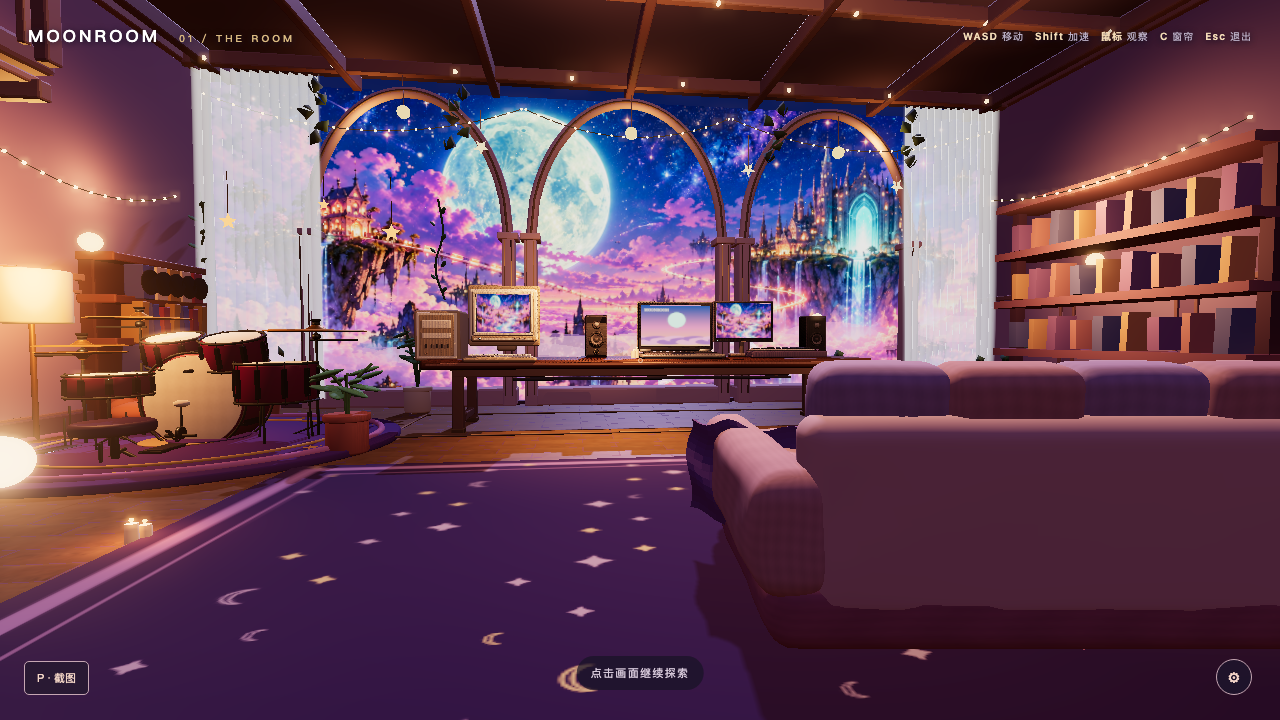
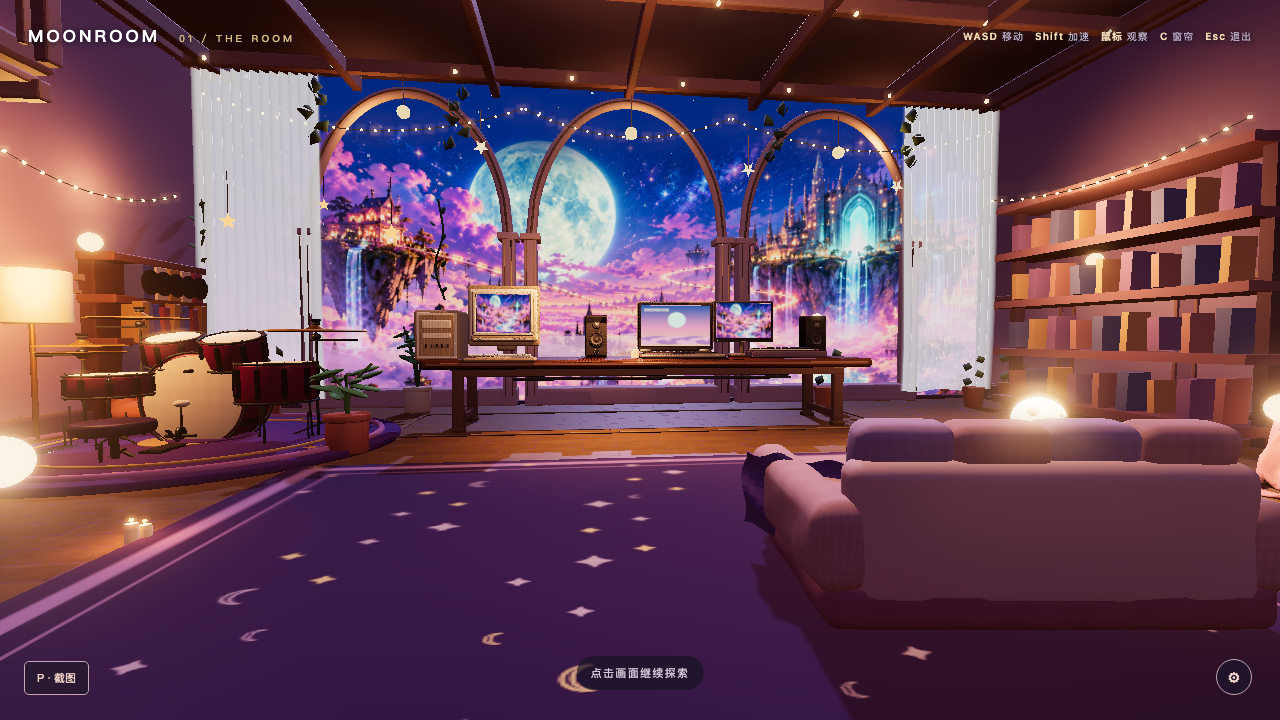
Enlarge bed to 1.7x and shrink cloud sofa to 0.78x

Changed region(s): [[0.2188, 0.0917, 1.0, 1.0], [0.75, 0.3667, 0.7812, 0.3972], [0.625, 0.7944, 0.6562, 0.825]]

diff --git a/src/scene/Lounge.jsx b/src/scene/Lounge.jsx
@@ -5,6 +5,8 @@ import { FLAGS } from '../config/flags'
 import GLBAsset from './AssetModel'
 
 // F01: low cloud sofa, seat facing the window so the `beanbag` camera pose looks out over the arches.
+// Sofa is drawn at SOFA_SCALE; collider/anchor sizes below are in the unscaled model space.
+const SOFA_SCALE = .78
 const SOFA_COLLIDERS = [{name:'Lounge_Collider',position:[0,.55,0],size:[3.6,1.1,2.35]}]
 const LEGACY_COLLIDERS = [{name:'Lounge_Collider',position:[0,.7,0],size:[3.35,1.4,3.45]}]
 const LOUNGE_ANCHORS = [{name:'Lounge_Interaction',position:[0,1,1.4]}]
@@ -13,5 +15,5 @@ export default function Lounge(){
   // The sofa back faces the room entrance; lift it to cream boucle so it reads soft rather than a dark slab.
   const backMaterials = useMemo(() => ({ CS_Back_Frame: new THREE.MeshStandardMaterial({ color:'#d8b2b9', roughness:.96 }) }), [])
   if (FLAGS.loungeLegacy) return <GLBAsset url="/assets/models/reclining-lounge.glb" position={FURNITURE.beanbag.position} rotation={[0,-.18,0]} collisionMeshes={LEGACY_COLLIDERS} interactionAnchors={LOUNGE_ANCHORS} fallbackScale={1.4}/>
-  return <GLBAsset url="/assets/models/lounge/cloud-sofa.glb" position={FURNITURE.beanbag.position} rotation={[0,Math.PI-.12,0]} nodeMaterials={backMaterials} collisionMeshes={SOFA_COLLIDERS} interactionAnchors={LOUNGE_ANCHORS} fallbackScale={1.4}/>
+  return <GLBAsset url="/assets/models/lounge/cloud-sofa.glb" position={FURNITURE.beanbag.position} rotation={[0,Math.PI-.12,0]} scale={SOFA_SCALE} nodeMaterials={backMaterials} collisionMeshes={SOFA_COLLIDERS} interactionAnchors={LOUNGE_ANCHORS} fallbackScale={1.4}/>
 }

diff --git a/src/config/scene.js b/src/config/scene.js
@@ -49,11 +49,11 @@ export const QA_LOOKS = {
 }
 
 export const FURNITURE = {
-  bed: { position: [8.45, 0, 3.0], size: [3.3, 1.15, 3.75] },
+  bed: { position: [7.9, 0, 3.0], size: [4.1, 1.15, 4.6] },
   bookshelf: { position: [9.05, 0, -3.1], size: [1.25, 4.8, 5.1] },
   desk: { position: [0.1, 0, -4.25], size: [8.2, 1.25, 1.7] },
   drums: { position: [-7.1, 0, -2.8], size: [4.2, 2.2, 3.8] },
-  beanbag: { position: [1.3, 0, 3.0], size: [3.6, 1.2, 2.4] },
+  beanbag: { position: [1.3, 0, 3.0], size: [2.85, 1.0, 1.9] },
   keyboard: { position: [-8.9, 0, 2.6], size: [1.4, 1.5, 3.25] },
   record: { position: [-7.6, 0, 5.5], size: [1.55, 1.15, 1.6] },
 }
@@ -82,5 +82,5 @@ export const FOX_HINTS = [
 export const CAMERA_POSES = {
   computer: { position: [-2.65, 1.75, -2.6], lookAt: [-2.65, 1.45, -4.35] },
   drums: { position: [-7.05, 1.72, -.15], lookAt: [-7.05, 1.1, -2.85] },
-  beanbag: { position: [1.3, 1.45, 3.35], lookAt: [.4, 3.2, -13] },
+  beanbag: { position: [1.3, 1.3, 3.2], lookAt: [.4, 3.0, -13] },
 }

diff --git a/src/scene/Furniture.jsx b/src/scene/Furniture.jsx
@@ -50,7 +50,7 @@ function Rug(){
 
 // E01: "Messy bed 2.0" by thethieme (Sketchfab, CC BY 4.0, credit in ASSETS.md), recoloured to the
 // Moonroom palette. Base maps are dropped (they bake the original grey/black look); normal and
-// roughness maps keep the fabric folds and wood grain. Scaled 1.35x so it holds its own in the 20 m room.
+// roughness maps keep the fabric folds and wood grain. Scaled 1.7x so it reads as the room's big dream bed.
 const BED_TINTS = {
   Nordli_Cover: { color: new THREE.Color('#d98fae'), map: null },     // draped throw: rose knit
   Nordli_Comforter: { color: new THREE.Color('#f3e4dc'), map: null }, // folded duvet: cream
@@ -66,7 +66,7 @@ function Bed() {
     url="/assets/models/bed/messy-bed-2.glb"
     position={FURNITURE.bed.position}
     rotation={[0, -Math.PI / 2, 0]}
-    scale={1.35}
+    scale={1.7}
     axisCorrection={false}
     nodeOverrides={BED_TINTS}
     fallbackScale={1.5}

diff --git a/assets/moonroom_asset_dependencies.md b/assets/moonroom_asset_dependencies.md
@@ -18,8 +18,8 @@ Active/available core GLBs:
 | --- | --- | --- |
 | D01 drum | `public/assets/models/acoustic-drum-kit.glb` / `src/scene/DrumKit.jsx` | **Protected default.** Position `[-7.1,0,-2.8]`; 4.2×2.2×3.8 m simplified collider; `drums` interaction; eight roots `Kick`, `Snare`, `HiHat_Top`, `Tom_One`, `Tom_Two`, `Floor_Tom`, `Crash`, `Ride`. `assets-source/drums/art-katja/` and `public/assets/models/candidates/...` are opt-in candidate material, not proof that the default was replaced. |
 | C02 CRT | `public/assets/models/vintage-crt.glb` / `Workstation.jsx` | Active, positioned `[-2.65,1.22,-4.25]` at scale 0.72. `computer` ID. Dynamic screen is a runtime plane, so retain its separate surface and camera pose. |
-| E01 bed | `public/assets/models/bed/messy-bed-2.glb` (CC BY 4.0, thethieme) / `Furniture.jsx` | **Active since 2026-10-22** at `[8.45,0,3]`, Y rotation −π/2, uniform scale 1.35, footprint 3.3×3.75 m, runtime recolour via `nodeOverrides`. Old Moon Nest behind `?bedLegacy=1`. |
-| F01 lounge | `public/assets/models/lounge/cloud-sofa.glb` / `Lounge.jsx` | **Active since 2026-10-22** at `[1.3,0,3]`, seat facing the windows; `beanbag` interaction kept, 3.6×2.4 m footprint. Old `reclining-lounge.glb` behind `?loungeLegacy=1`. |
+| E01 bed | `public/assets/models/bed/messy-bed-2.glb` (CC BY 4.0, thethieme) / `Furniture.jsx` | **Active since 2026-10-22** at `[7.9,0,3]`, Y rotation −π/2, uniform scale 1.7, footprint 4.1×4.6 m, runtime recolour via `nodeOverrides`. Old Moon Nest behind `?bedLegacy=1`. |
+| F01 lounge | `public/assets/models/lounge/cloud-sofa.glb` / `Lounge.jsx` | **Active since 2026-10-22** at `[1.3,0,3]`, seat facing the windows, scale 0.78; `beanbag` interaction kept, 2.85×1.9 m footprint. Old `reclining-lounge.glb` behind `?loungeLegacy=1`. |
 | Drum corner | `assets-source` build script → `public/assets/models/drum-corner.glb` / `DrumCorner.jsx` | Active, follows D01 position. Contains rug, lamp, plants, shelf and curtains; audit before splitting to avoid duplicate visible instances. |
 | Moon lamp | `assets-source/lounge/moon-breathing-lamp.blend` → GLB / `DreamLoungeProps.jsx` | Active decorative light, separate from the reference pack's large moon. |
 | Other variants | `reclining-lounge.glb`, `cloud-sofa.glb`, `moon-nest-textile-sample.glb`, `sketchfab-messy-bed-2/original.glb` | Keep provenance/status distinct. A file being present does not mean it is active, approved or legally reusable in a distributed build. See `assets-source/third-party/SOURCES.md`. |

diff --git a/ASSETS.md b/ASSETS.md
@@ -22,7 +22,7 @@
 
 | 文件 | 来源 | 许可证 / 署名 |
 | --- | --- | --- |
-| `public/assets/models/bed/messy-bed-2.glb` | [“Messy bed 2.0 (with wall mounted backboard)” by thethieme](https://sketchfab.com/3d-models/messy-bed-20-with-wall-mounted-backboard-a2b2645701c94fa49e65661806219c6b)，用户提供的转换 GLB；原始文件保存在 `assets-source/third-party/sketchfab-messy-bed-2/original.glb` | [Creative Commons Attribution 4.0](https://creativecommons.org/licenses/by/4.0/)；分发时必须保留署名。项目只在运行时修改颜色（去掉原底色贴图、保留法线/粗糙度）、放大 1.35 倍并调整朝向，未改动网格 |
+| `public/assets/models/bed/messy-bed-2.glb` | [“Messy bed 2.0 (with wall mounted backboard)” by thethieme](https://sketchfab.com/3d-models/messy-bed-20-with-wall-mounted-backboard-a2b2645701c94fa49e65661806219c6b)，用户提供的转换 GLB；原始文件保存在 `assets-source/third-party/sketchfab-messy-bed-2/original.glb` | [Creative Commons Attribution 4.0](https://creativecommons.org/licenses/by/4.0/)；分发时必须保留署名。项目只在运行时修改颜色（去掉原底色贴图、保留法线/粗糙度）、放大 1.7 倍并调整朝向，未改动网格 |
 
 完整署名文本：`“Messy bed 2.0 (with wall mounted backboard)” (https://sketchfab.com/3d-models/messy-bed-20-with-wall-mounted-backboard-a2b2645701c94fa49e65661806219c6b) by thethieme is licensed under Creative Commons Attribution (http://creativecommons.org/licenses/by/4.0/).`
 
